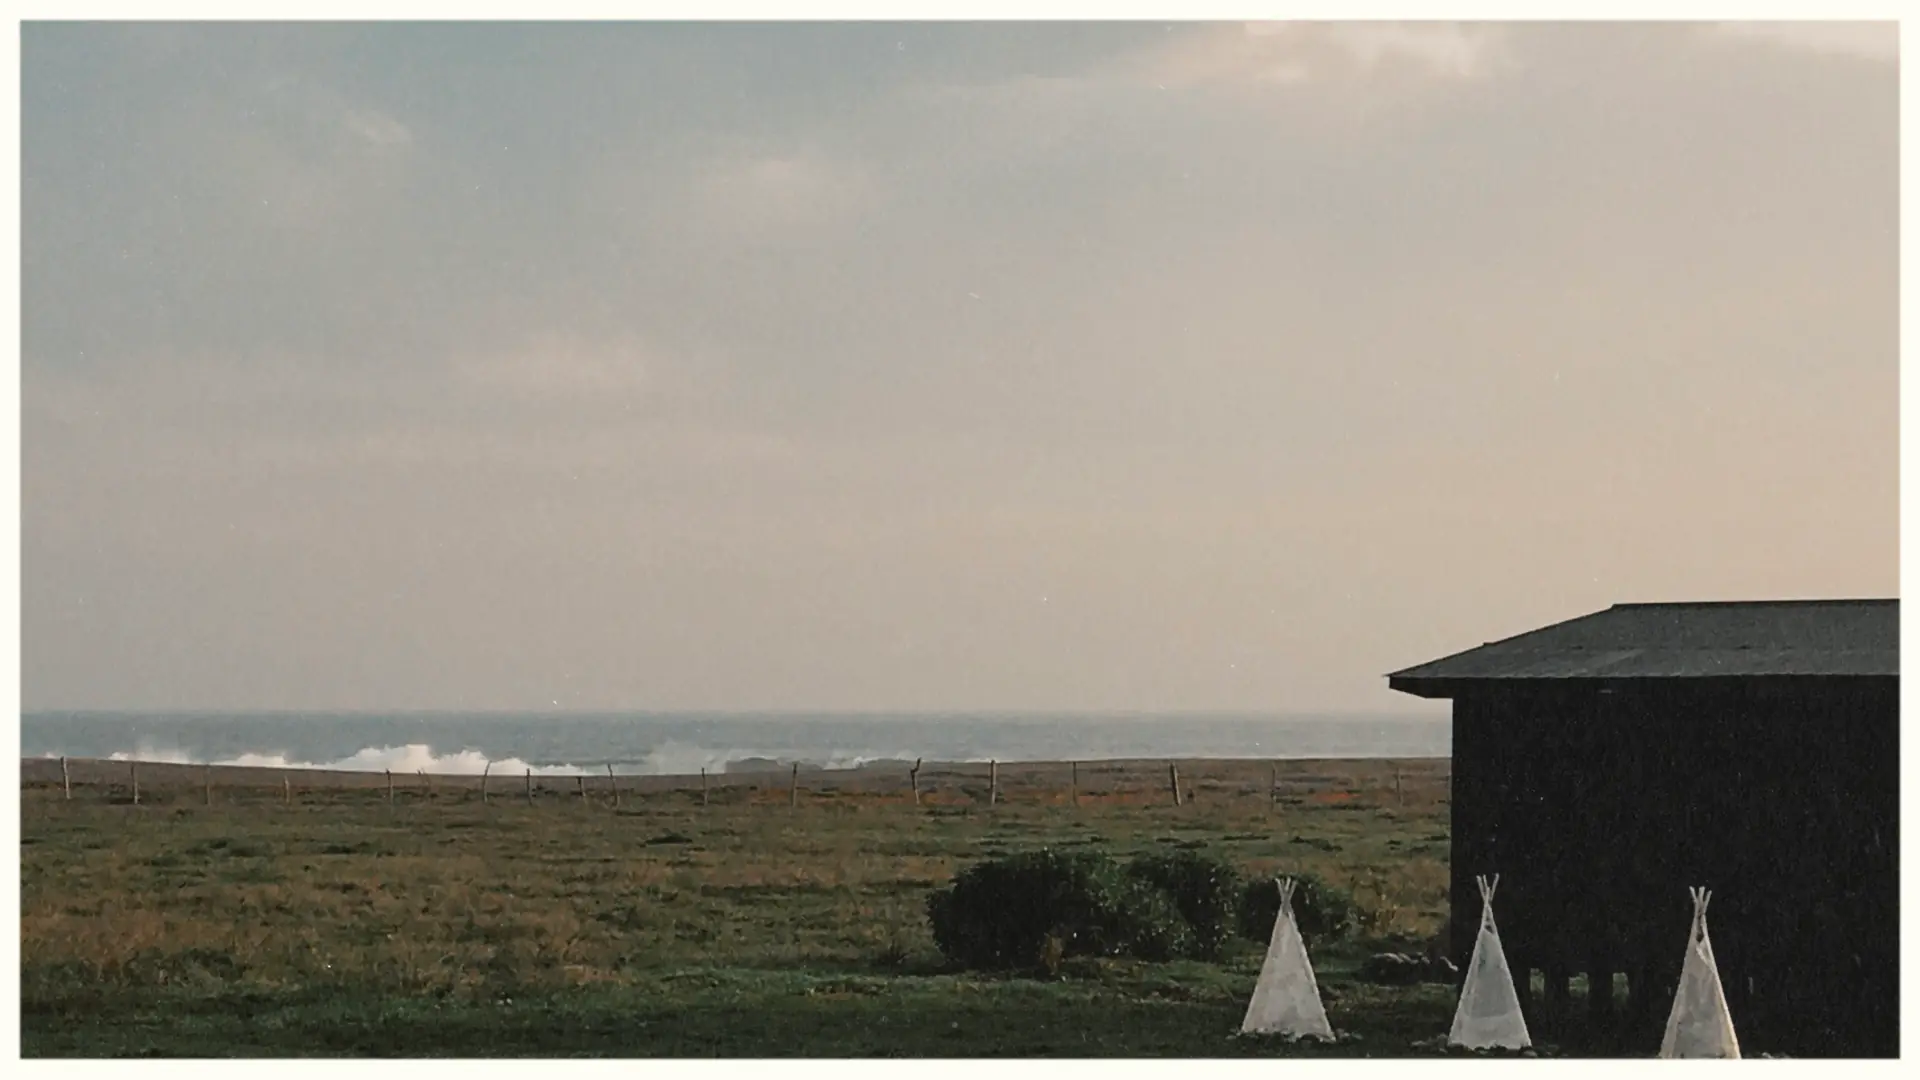
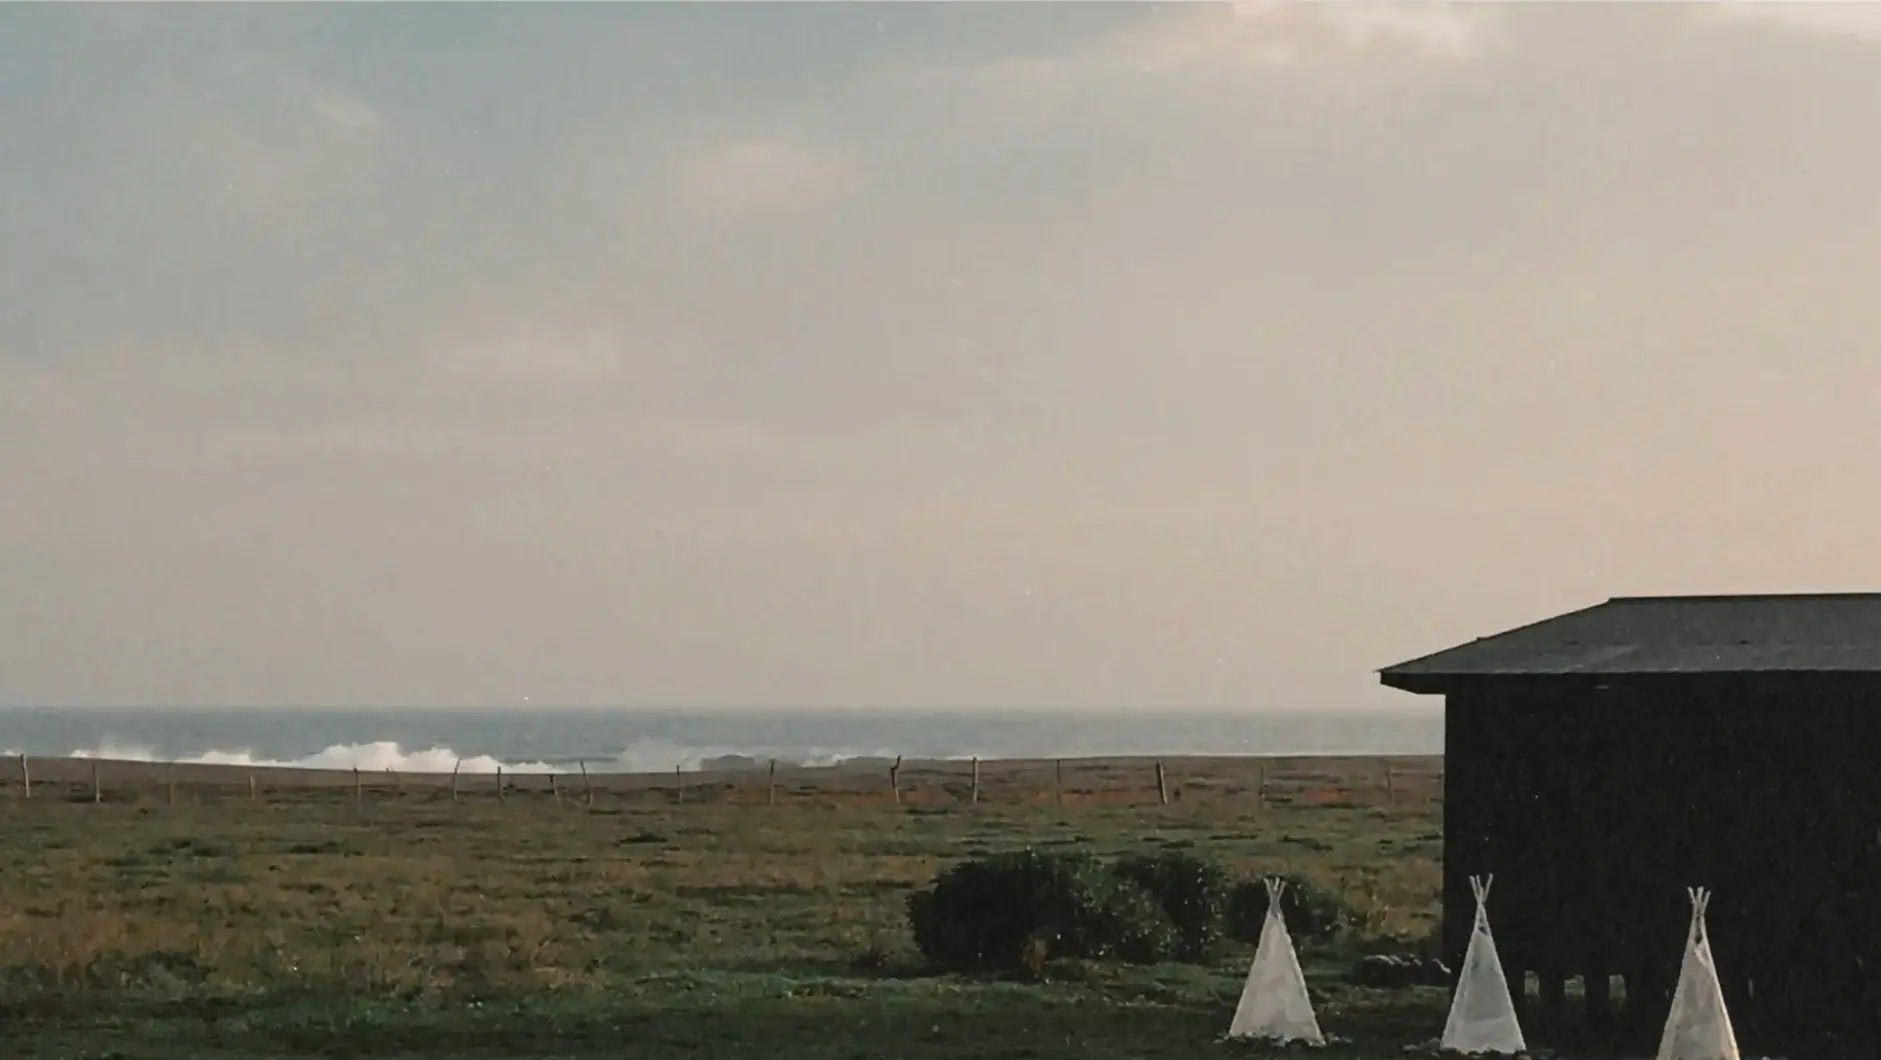
Ultimos detalles volumen 1

Changed region(s): [[0.0, 0.0, 1.0, 1.0]]

diff --git a/src/components/Navigation.tsx b/src/components/Navigation.tsx
@@ -286,13 +286,13 @@ const Navigation = ({ position = "fixed" }: NavigationProps) => {
                                 <div className="space-y-2 text-sm leading-tight flex-1 pr-2 text-justify">
                                   <div className="text-lg font-semibold">BRUTO ATELIER</div>
                                   <p>
-                                    Nuestra marca se enfoca en la solucion de encargos de diseno de un amplio
-                                    espectro. Creamos vision, resolvemos espacio y sus componentes: el habitar
+                                    Nuestra marca se enfoca en la solución de encargos de diseño de un amplio
+                                    espectro. Creamos visión, resolvemos espacio y sus componentes: el habitar
                                     completo.
                                   </p>
                                   <p>
                                     Creemos en lo que se diferencia en silencio y trasciende en el tiempo, lo que
-                                    perdura con elegancia y desarrolla caracter. Disenamos singularidad, fabricando
+                                    perdura con elegancia y desarrolla carácter. Diseñamos singularidad, fabricando
                                     de manera local con materiales y artesanos seleccionados.
                                   </p>
                                   <p>
@@ -385,17 +385,17 @@ const Navigation = ({ position = "fixed" }: NavigationProps) => {
                           <div className="space-y-5 text-sm leading-relaxed max-h-[65vh] overflow-y-auto pr-2">
                             <div className="text-lg font-semibold">BRUTO ATELIER</div>
                             <p>
-                              Nuestra marca se enfoca en la solucion de encargos de diseno de un amplio
-                              espectro. Creamos vision, resolvemos espacio y sus componentes: el habitar
+                              Nuestra marca se enfoca en la solución de encargos de diseño de un amplio
+                              espectro. Creamos visión, resolvemos espacio y sus componentes: el habitar
                               completo.
                             </p>
                             <p>
                               Creemos en lo que se diferencia en silencio y trasciende en el tiempo, lo que
-                              perdura con elegancia y desarrolla caracter. Disenamos singularidad, fabricando
+                              perdura con elegancia y desarrolla carácter. Diseñamos singularidad, fabricando
                               de manera local con materiales y artesanos seleccionados.
                             </p>
                             <p>
-                              Nuestra vision busca entregar una experiencia, que se entiende al conocerla.
+                              Nuestra visión busca entregar una experiencia, que se entiende al conocerla.
                             </p>
                             <p>Pruebanos.</p>
                           </div>

diff --git a/index.html b/index.html
@@ -6,6 +6,7 @@
     <!-- TODO: Set the document title to the name of your application -->
     <title>BRUTO Atelier | Arquitectura, Ambientes y Objetos • High-End Design Studio</title>
     <link rel="icon" type="image/svg+xml" href="/favicon.svg" />
+    <link rel="icon" type="image/svg+xml" sizes="any" href="/favicon.svg" />
     <meta name="description" content="BRUTO Atelier: Creemos en lo que se diferencia en silencio y trasciende en el tiempo. Diseñamos singularidad, fabricando de manera local con materiales y artesanos seleccionados." />
     <meta name="author" content="Bruto Atelier" />
 